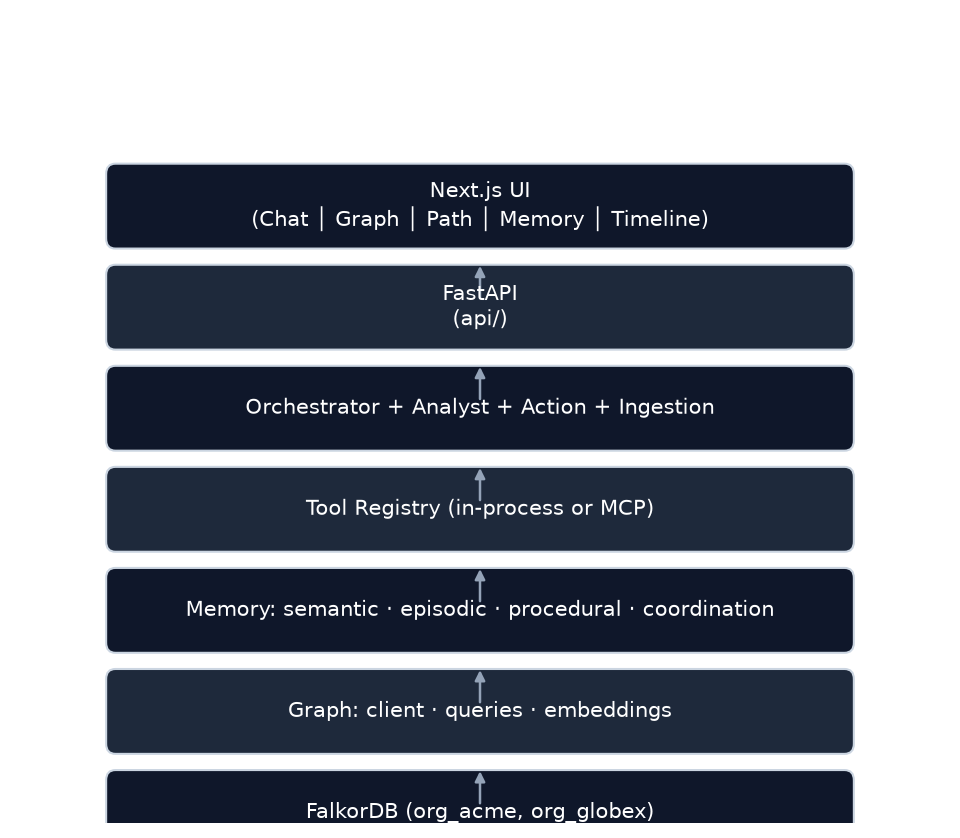
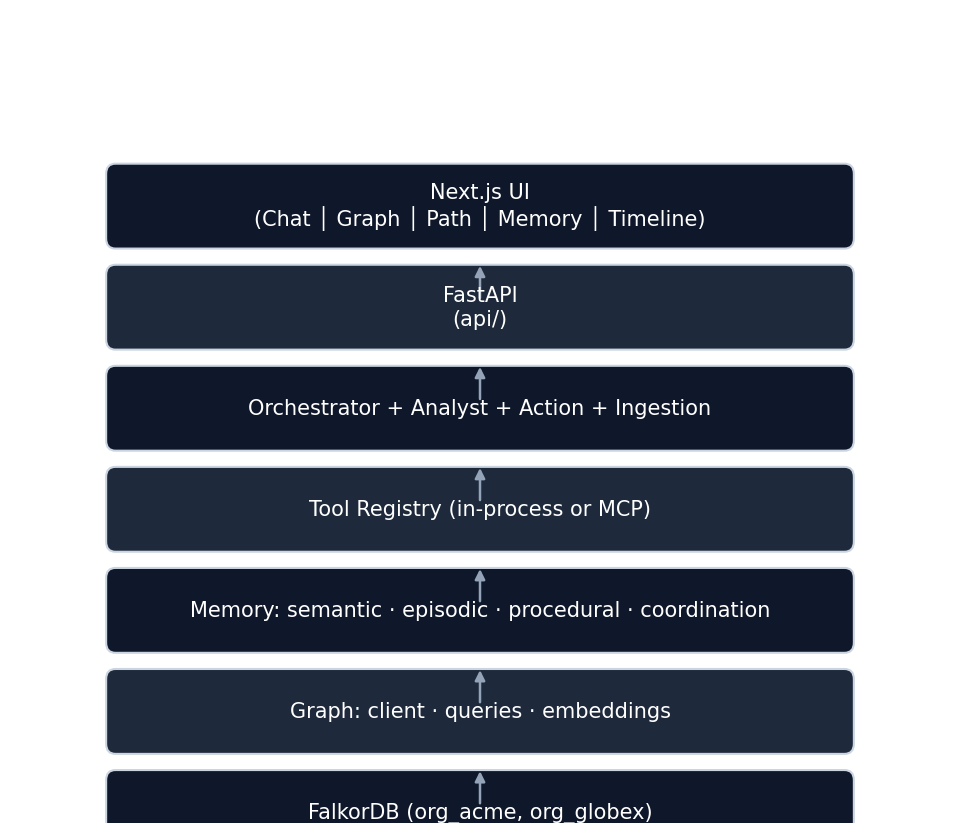
fix: resolve MCP tool wrapper defaults, web build TS error, and doc filenames
- web/app/graph-canvas.tsx: add nullish guard for a.y and b.y on edge coordinates so next build compiles cleanly.
- mcp_server/server.py: inject default_tenant in _mcp_callable wrapper when omitted, and add _StubTool descriptor with .name in _StubServer.list_tools().
- tests/test_mcp_server.py & scripts/mcp_smoke.py: safely resolve tool names.
- docs: rename accidental ' (1)' suffix on ARCHITECTURE and BUILD_LIST, and update reference in README.md.
- data: add synthetic_baseline.json evidence artifact.

diff --git a/web/app/graph-canvas.tsx b/web/app/graph-canvas.tsx
@@ -136,7 +136,7 @@ export function GraphCanvas({ paths, onSelect, selectedId }: Props) {
         {edges.map((e, i) => {
           const a = nodes.get(e.source);
           const b = nodes.get(e.target);
-          if (!a || !b || a.x == null || b.x == null) return null;
+          if (!a || !b || a.x == null || b.x == null || a.y == null || b.y == null) return null;
           const isHovered =
             hoveredEdge &&
             hoveredEdge.source === e.source &&

diff --git a/mcp_server/server.py b/mcp_server/server.py
@@ -106,7 +106,12 @@ def _mcp_callable(tool_obj: Any, default_tenant: str) -> Callable[..., Any]:
 
     @functools.wraps(fn)
     def wrapper(*args: Any, **kwargs: Any) -> Any:
-        return fn(*args, **kwargs)
+        bound = dict(kwargs)
+        if has_tenant and "tenant" not in bound and default_tenant is not None:
+            bound["tenant"] = default_tenant
+        elif not has_tenant and "tenant" in bound:
+            bound.pop("tenant", None)
+        return fn(*args, **bound)
 
     # Give the SDK the resolved signature AND the resolved annotations.
     resolved_sig = sig.replace(parameters=params, return_annotation=dict)
@@ -185,6 +190,21 @@ def list_registered_tools(server: Any) -> list[str]:
 # ---------------------------------------------------------------------------
 
 
+class _StubTool:
+    """Minimal tool descriptor mirroring FastMCP's Tool object."""
+
+    def __init__(self, name: str, fn: Callable[..., Any], description: str = "") -> None:
+        self.name = name
+        self.fn = fn
+        self.description = description
+
+    def __str__(self) -> str:
+        return self.name
+
+    def __repr__(self) -> str:
+        return f"<Tool name={self.name!r}>"
+
+
 class _StubServer:
     """Minimal stand-in so imports never fail without the MCP SDK."""
 
@@ -204,7 +224,7 @@ class _StubServer:
         return deco
 
     async def list_tools(self):
-        return list(self._tools)
+        return [_StubTool(name, fn) for name, fn in self._tools.items()]
 
     async def call_tool(self, name: str, arguments: dict[str, Any]):
         if name not in self._tools:

diff --git a/tests/test_mcp_server.py b/tests/test_mcp_server.py
@@ -51,7 +51,7 @@ def test_all_registry_tools_are_advertised():
 
     server = build_server()
     advertised = _run(server.list_tools())
-    names = {getattr(t, "name", getattr(t, "title", str(t))) for t in advertised}
+    names = {getattr(t, "name", None) or (t if isinstance(t, str) else str(t)) for t in advertised}
 
     expected = {t.name for t in REGISTRY}
     missing = expected - names
@@ -72,7 +72,7 @@ def test_optional_annotations_resolve():
     builder (they did before the type hints were resolved)."""
     server = build_server()
     advertised = _run(server.list_tools())
-    names = {getattr(t, "name", getattr(t, "title", str(t))) for t in advertised}
+    names = {getattr(t, "name", None) or (t if isinstance(t, str) else str(t)) for t in advertised}
     # These four are exactly the ones that used to fail registration.
     for name in ("search_entities", "get_neighbors", "create_ticket", "draft_message"):
         assert name in names

diff --git a/scripts/mcp_smoke.py b/scripts/mcp_smoke.py
@@ -31,7 +31,8 @@ async def _run() -> int:
     tools = await server.list_tools()
     names = []
     for t in tools:
-        names.append(getattr(t, "name", getattr(t, "title", str(t))))
+        name = getattr(t, "name", None) or (t if isinstance(t, str) else str(t))
+        names.append(str(name))
     names = sorted(names)
     print(f"tools advertised: {len(names)}")
     for n in names:

diff --git a/README.md b/README.md
@@ -183,5 +183,5 @@ live API for real numbers.)
 - **Phase 5** — load test, baseline (graph-necessity proof). ✅
 - **Phase 6** — submission. 🚧
 
-See `BUILD_LIST.md` for the full task list with IDs and
+See `docs/BUILD_LIST.md` for the full task list with IDs and
 `docs/CYPHER.md` for the canonical queries.

diff --git a/docs/CYPHER.md b/docs/CYPHER.md
@@ -148,3 +148,8 @@ Tool
 
 Demo question
     All 5 (every question starts by finding an entry node).
+
+Notes
+    FalkorDB's signature is
+    ``db.idx.vector.queryNodes(label, attribute, k, query)`` and the
+    query vector must be wrapped in ``vecf32()``.
